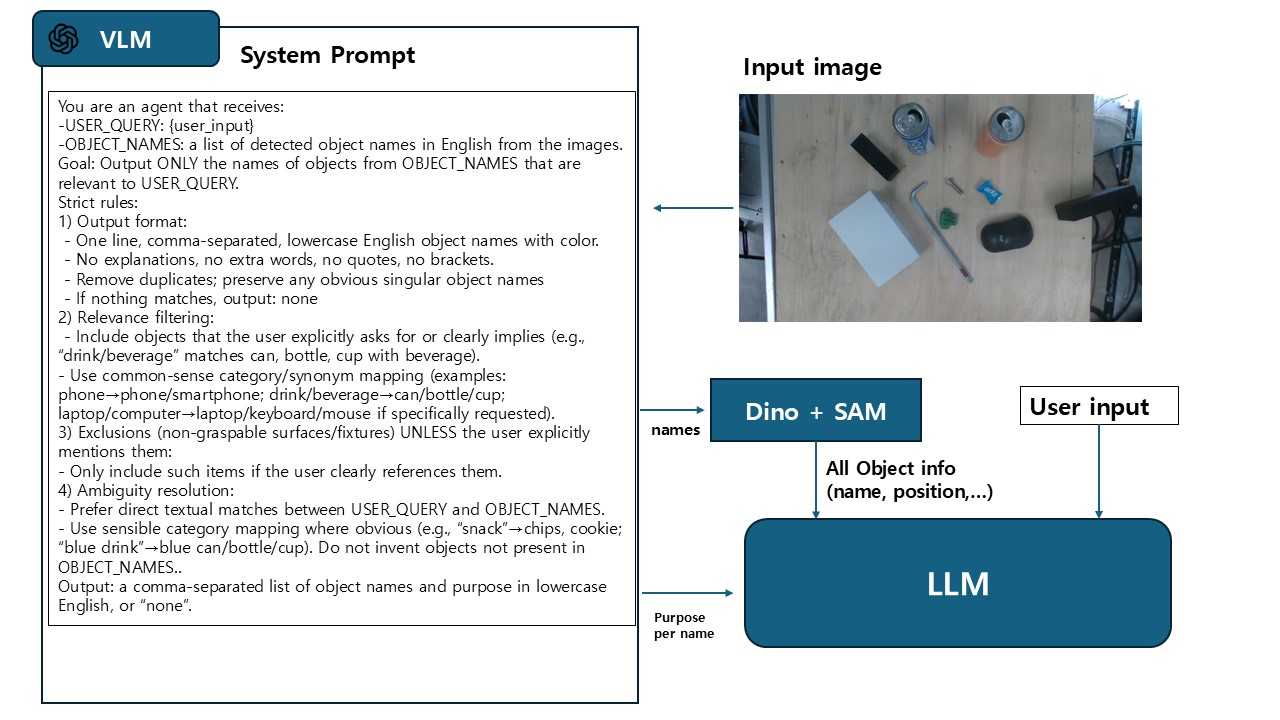
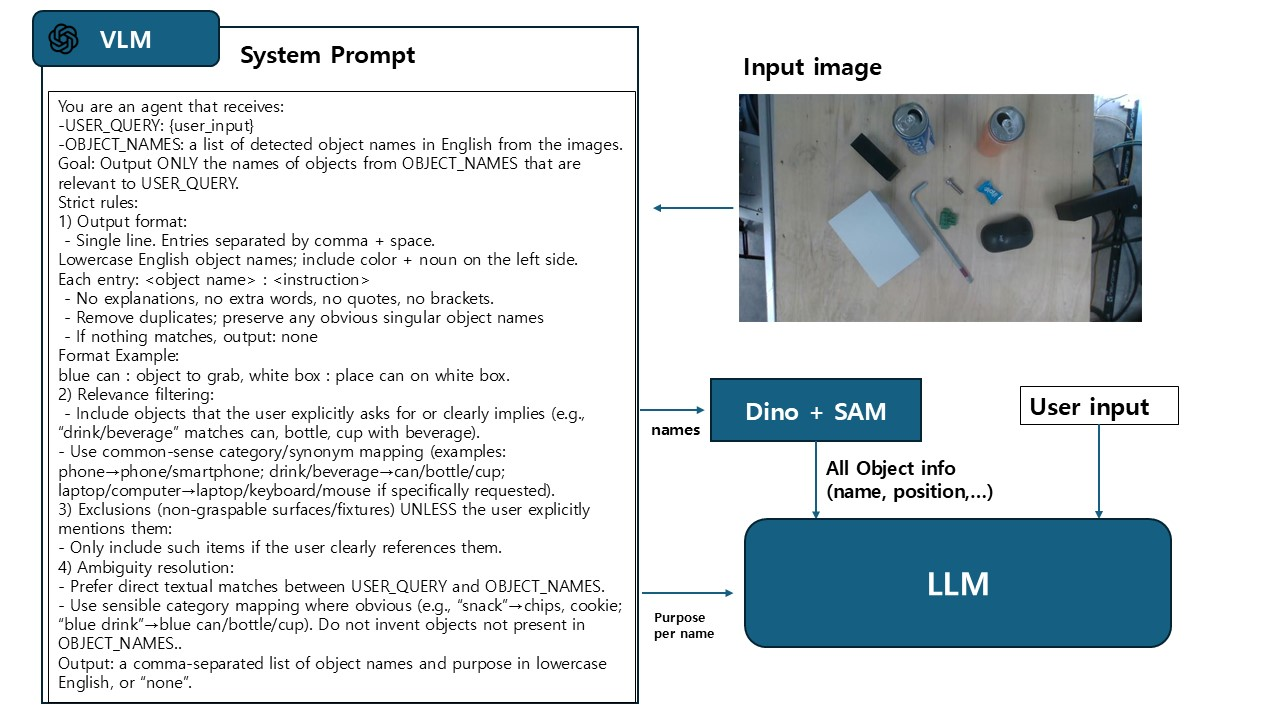
.

Changed region(s): [[0.0312, 0.3056, 0.5, 0.9778]]

diff --git a/projects/project1_LLM_controlled_robot.md b/projects/project1_LLM_controlled_robot.md
@@ -188,7 +188,7 @@ During development, we noticed that forcing the LLM to produce strictly formatte
 ## Evaluation
 
 ### Perception (VLM-Dino method)
-
+To evaluate our proposed VLM–DINO method, we implemented a baseline(**Fig. 14**). In this baseline, the VLM first selects the target object’s name. We pass that name to Grounding DINO to localize the object (bounding box), then apply SAM to segment it and compute the object’s 3D properties. The planner LLM consumes these object metadata (3D properties) together with the VLM-generated purpose of the selected object to produce the action sequence. For each instruction, we ran 10 trials. The object layout was fixed across trials, while lighting varied naturally with sunlight. a trial is counted as success only if the selected object matches the ground-truth target, otherwise it is counted as failure.
 
 {% include project-media.html
    type="image"
